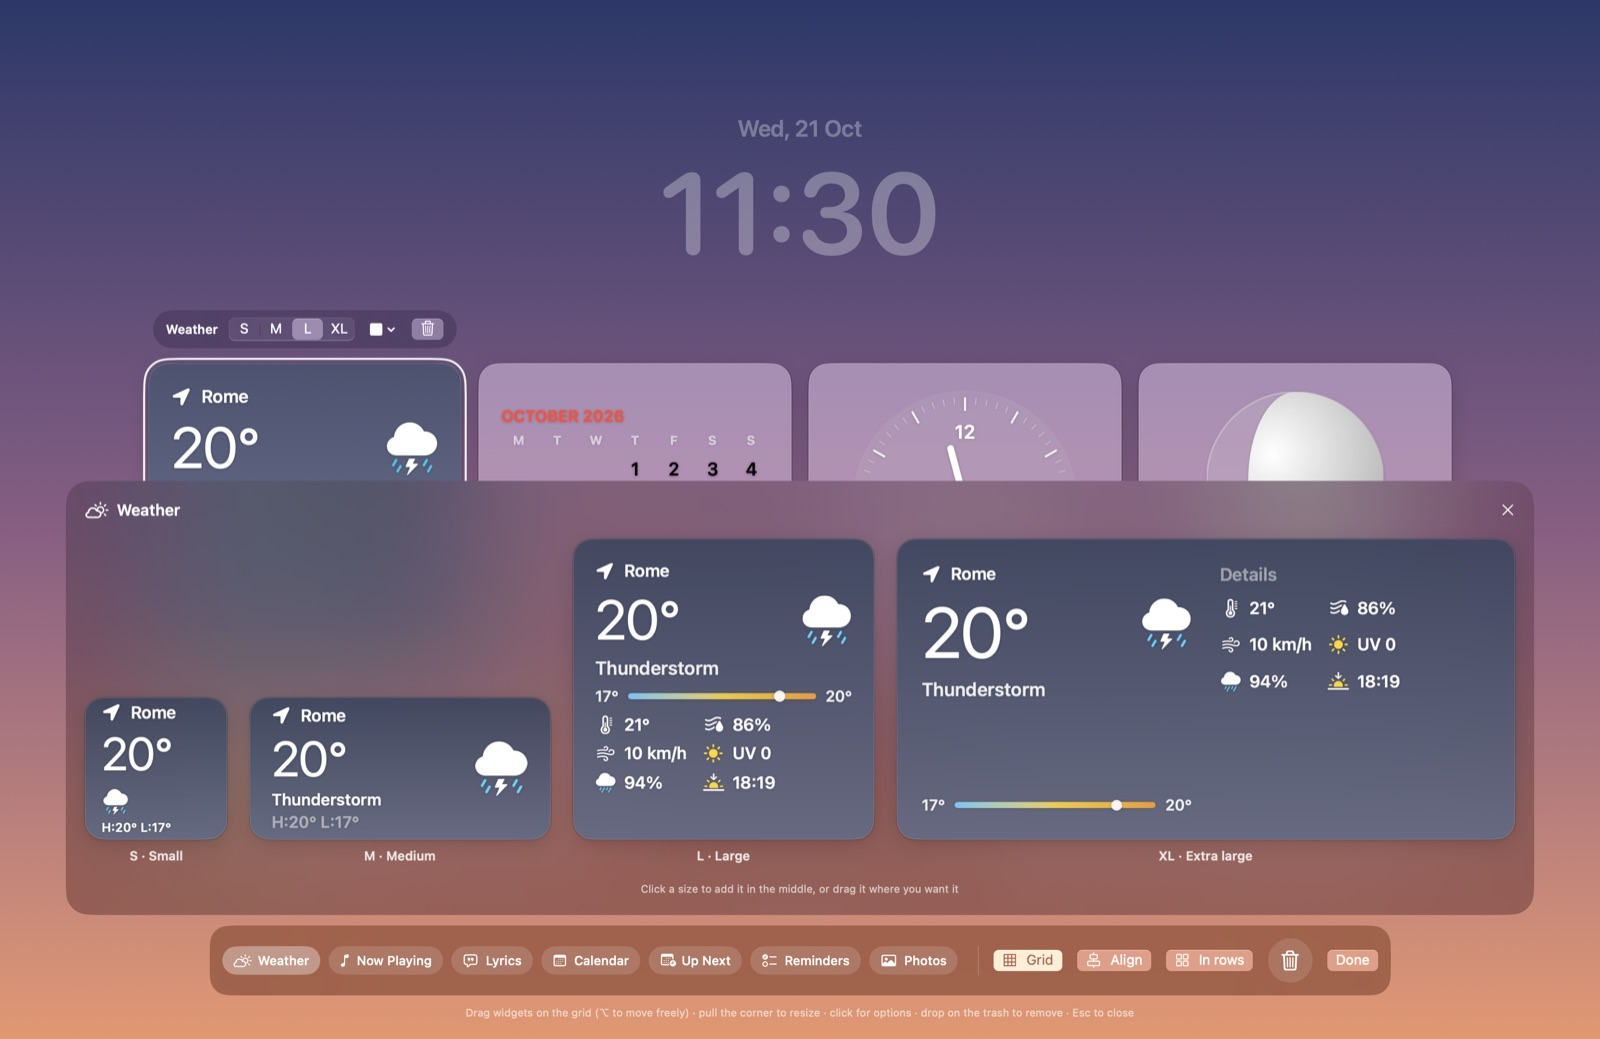
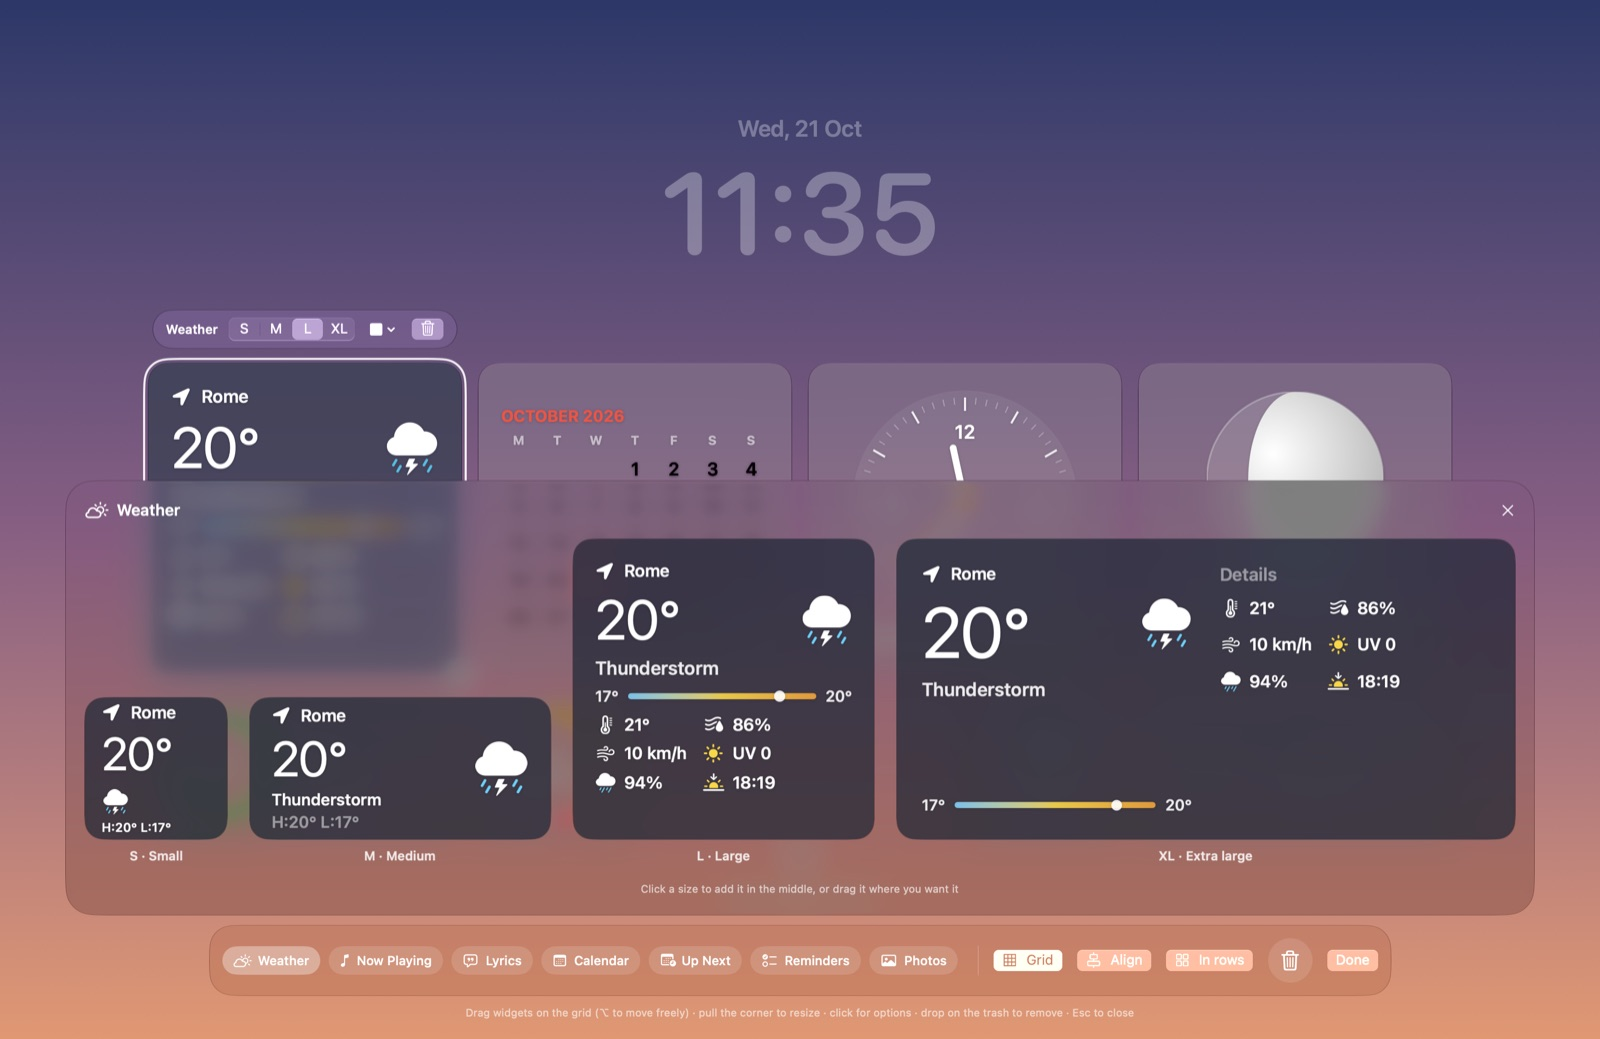
Liquid Glass per widget e studio
Su macOS 26 e successivi gli stili Vetro, Vetro trasparente (nuovo,
predefinito) e Vetro colorato usano glassEffect senza bordi o velature
aggiunte; il meteo e il vetro colorato usano la tinta del vetro. Barra,
barretta e galleria dello studio in Liquid Glass, con pulsanti normali
dentro la barra per non sovrapporre vetro a vetro. Su sistemi precedenti
restano i materiali sfocati. Screenshot e README aggiornati.

diff --git a/Sources/Bacheca/Widgets.swift b/Sources/Bacheca/Widgets.swift
@@ -126,7 +126,7 @@ struct WidgetCard: View {
     /// Weather cards take on the sky of the current conditions, except in styles with their own color.
     private func sky(_ c: Config) -> [Color]? {
         guard item.kind == .weather, !item.bare, item.backdrop == .style, let w = weather.now,
-              [.glass, .tinted, .dark].contains(c.style) else { return nil }
+              [.glass, .clearGlass, .tinted, .dark].contains(c.style) else { return nil }
         return w.sky
     }
 }
@@ -181,6 +181,11 @@ private struct CardChrome: ViewModifier {
                 }
                 .clipShape(shape)
                 .modifier(MacEdge(shape: shape))
+        } else if LiquidGlass.available && style.isGlass {
+            // Liquid Glass draws its own edge highlight, depth and adaptive contrast: nothing on top.
+            content
+                .clipShape(shape)
+                .modifier(CardBackground(style: style, accent: accent, shape: shape, tint: sky?.first))
         } else {
             content
                 .background {
@@ -189,7 +194,7 @@ private struct CardChrome: ViewModifier {
                     }
                 }
                 .clipShape(shape)
-                .modifier(CardBackground(style: style, accent: accent, shape: shape))
+                .modifier(CardBackground(style: style, accent: accent, shape: shape, tint: nil))
                 .modifier(MacEdge(shape: shape))
         }
     }
@@ -199,35 +204,39 @@ private struct CardBackground: ViewModifier {
     let style: CardStyle
     let accent: Color
     let shape: RoundedRectangle
+    /// Color the glass takes on (the weather sky); the tinted style uses the accent instead.
+    let tint: Color?
     @Environment(\.accessibilityReduceTransparency) private var reduceTransparency
 
     func body(content: Content) -> some View {
-        if reduceTransparency && (style == .glass || style == .tinted) {
-            content.background(style == .tinted ? accent.opacity(0.85) : Color(white: 0.17), in: shape)
+        if reduceTransparency && style.isGlass {
+            content.background(style == .tinted ? accent.opacity(0.85) : (tint ?? Color(white: 0.17)), in: shape)
         } else {
             styled(content)
         }
     }
 
+    @available(macOS 26.0, *)
+    private var glass: Glass {
+        let base: Glass = style == .clearGlass ? .clear : .regular
+        if let color = style == .tinted ? accent : tint { return base.tint(color.opacity(0.6)) }
+        return base
+    }
+
     @ViewBuilder
     private func styled(_ content: Content) -> some View {
         switch style {
-        case .glass:
-            // A light dark wash under the glass keeps white text legible on bright wallpapers.
+        case .glass, .clearGlass, .tinted:
             if #available(macOS 26.0, *) {
+                // Clear glass is barely there, so a light dimming keeps white text readable, as Apple advises.
                 content
-                    .background(Color.black.opacity(0.1), in: shape)
-                    .glassEffect(.regular, in: shape)
+                    .background(style == .clearGlass ? Color.black.opacity(0.18) : Color.clear, in: shape)
+                    .glassEffect(glass, in: shape)
             } else {
                 content
-                    .background(Color.black.opacity(0.1), in: shape)
+                    .background(style == .tinted ? accent.opacity(0.5) : Color.black.opacity(style == .clearGlass ? 0.18 : 0.1), in: shape)
                     .background(.ultraThinMaterial, in: shape)
             }
-        case .tinted:
-            // A glass tint alone barely shows over the lock screen, so the color sits under a thin material.
-            content
-                .background(accent.opacity(0.5), in: shape)
-                .background(.ultraThinMaterial, in: shape)
         case .dark:
             content.background(Color.black.opacity(0.45), in: shape)
         case .light:

diff --git a/Sources/Bacheca/Studio.swift b/Sources/Bacheca/Studio.swift
@@ -370,7 +370,7 @@ private struct CardToolbar: View {
             .help(tr("Rimuovi", "Remove"))
         }
         .padding(.horizontal, 12).padding(.vertical, 7)
-        .background(.ultraThinMaterial, in: Capsule())
+        .glassSurface(Capsule())
         .environment(\.colorScheme, .dark)
         .foregroundStyle(.white)
     }
@@ -412,6 +412,18 @@ func chooseImage(startingAt path: String?) -> String? {
     panel.level = NSWindow.Level(rawValue: NSWindow.Level.mainMenu.rawValue + 3)
     if let path, !path.isEmpty { panel.directoryURL = URL(fileURLWithPath: path).deletingLastPathComponent() }
     return panel.runModal() == .OK ? panel.url?.path : nil
+}
+
+extension View {
+    /// Liquid Glass surface on macOS 26 and later, a blur material before.
+    @ViewBuilder
+    func glassSurface<S: Shape>(_ shape: S) -> some View {
+        if #available(macOS 26.0, *) {
+            glassEffect(.regular, in: shape)
+        } else {
+            background(.ultraThinMaterial, in: shape)
+        }
+    }
 }
 
 // MARK: - Bottom bar: palette, arrange, trash
@@ -472,16 +484,17 @@ private struct StudioBar: View {
                 Image(systemName: edit.overTrash ? "trash.fill" : "trash")
                     .font(.system(size: 17, weight: .semibold))
                     .frame(width: 42, height: 42)
-                    .background(edit.overTrash ? Color.red.opacity(0.75) : Color.white.opacity(0.12), in: Circle())
+                    .background(edit.overTrash ? SystemColor.red.opacity(0.8) : Color.white.opacity(0.12), in: Circle())
                     .onGeometryChange(for: CGRect.self, of: { $0.frame(in: .named("studio")) }) { edit.trashFrame = $0.insetBy(dx: -12, dy: -12) }
                     .help(tr("Trascina qui un widget per toglierlo", "Drag a widget here to remove it"))
 
+                // A solid button in the system accent color: on the glass bar a glass button would wash out.
                 Button(tr("Fine", "Done"), action: onClose)
                     .buttonStyle(.borderedProminent)
                     .keyboardShortcut(.defaultAction)
             }
             .padding(12)
-            .background(.ultraThinMaterial, in: RoundedRectangle(cornerRadius: 18, style: .continuous))
+            .glassSurface(RoundedRectangle(cornerRadius: 22, style: .continuous))
 
             Text(tr("Trascina i widget sulla griglia (⌥ per muoverli liberamente) · tira l'angolo per cambiare dimensione · clic per le opzioni · sul cestino per toglierli · Esc per chiudere", "Drag widgets on the grid (⌥ to move freely) · pull the corner to resize · click for options · drop on the trash to remove · Esc to close"))
                 .font(.caption)
@@ -561,7 +574,7 @@ private struct SizeGallery: View {
         }
         .padding(18)
         .fixedSize()
-        .background(.ultraThinMaterial, in: RoundedRectangle(cornerRadius: 22, style: .continuous))
+        .glassSurface(RoundedRectangle(cornerRadius: 26, style: .continuous))
     }
 
     private func add(_ size: WidgetSize) {

diff --git a/Sources/Bacheca/Config.swift b/Sources/Bacheca/Config.swift
@@ -195,11 +195,12 @@ enum Retro: String, CaseIterable, Identifiable {
 }
 
 enum CardStyle: String, Codable, CaseIterable, Identifiable {
-    case glass, tinted, dark, light, solid, outline, bare
+    case glass, clearGlass, tinted, dark, light, solid, outline, bare
     var id: String { rawValue }
     var title: String {
         switch self {
         case .glass: tr("Vetro", "Glass")
+        case .clearGlass: tr("Vetro trasparente", "Clear glass")
         case .tinted: tr("Vetro colorato", "Tinted glass")
         case .dark: tr("Scuro", "Dark")
         case .light: tr("Chiaro", "Light")
@@ -209,6 +210,8 @@ enum CardStyle: String, Codable, CaseIterable, Identifiable {
         }
     }
     var usesAccent: Bool { self == .tinted || self == .solid || self == .outline }
+    /// Styles drawn with Liquid Glass on macOS 26 and later.
+    var isGlass: Bool { self == .glass || self == .clearGlass || self == .tinted }
 }
 
 enum FontStyle: String, Codable, CaseIterable, Identifiable {
@@ -252,7 +255,7 @@ struct RGBA: Codable, Hashable {
 struct Config: Codable {
     var items: [WidgetItem] = Config.starterLayout
     var scale: Double = 1.0
-    var style: CardStyle = .glass
+    var style: CardStyle = .clearGlass
     var accent: RGBA = .defaultAccent
     var fontStyle: FontStyle = .standard
     /// Widgets snap to a centered grid in the studio, like iPhone home screen icons.
@@ -379,6 +382,14 @@ struct LayoutGrid {
         let row = min(max(((center.y - s.height / 2 - origin.y) / pitch).rounded(), 0), CGFloat(max(0, rows - size.rows)))
         return CGPoint(x: origin.x + col * pitch + s.width / 2, y: origin.y + row * pitch + s.height / 2)
     }
+}
+
+/// Liquid Glass (`glassEffect`) exists from macOS 26; earlier systems get blur materials.
+enum LiquidGlass {
+    static let available: Bool = {
+        if #available(macOS 26.0, *) { return true }
+        return false
+    }()
 }
 
 /// Card geometry shared by the lock screen, the studio and auto layout.

diff --git a/README.md b/README.md
@@ -55,7 +55,7 @@ Up to 16 widgets. Each widget (except notes and photos) has its own **back**: th
 
 Weather cards take on the sky of the current conditions (clear, cloudy, rain, snow, night); battery and day rings are colored.
 
-Card styles: Glass, Tinted glass, Dark, Light, Solid, Outline, No background. Color, overall size and font (Standard, Rounded, Serif, Mono) are in Settings.
+Card styles: Clear glass (default) and Glass use Liquid Glass on macOS 26 and later (blur materials on earlier systems), plus Tinted glass, Dark, Light, Solid, Outline and No background. Color, overall size and font (Standard, Rounded, Serif, Mono) are in Settings. With Reduce Transparency on, glass cards turn solid.
 
 `open build/Bacheca.app --args --preview` opens the studio straight away, handy while developing (`--gallery` and `--grid` also open the size gallery and show the grid; `--demo` uses a neutral gradient instead of your wallpaper, as in the screenshots above).
 
